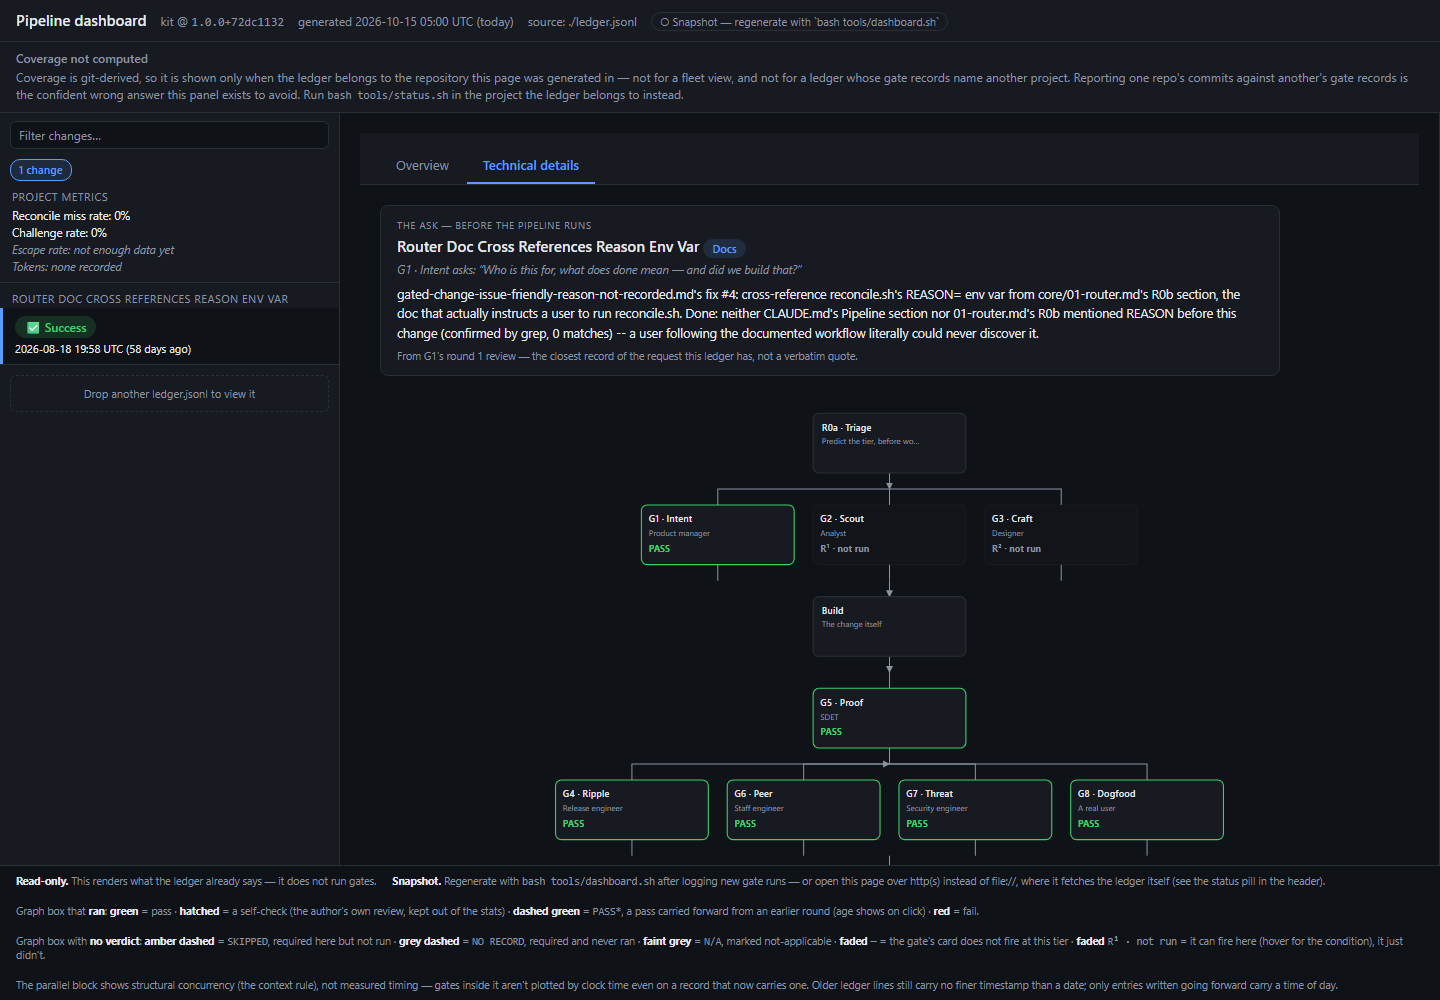
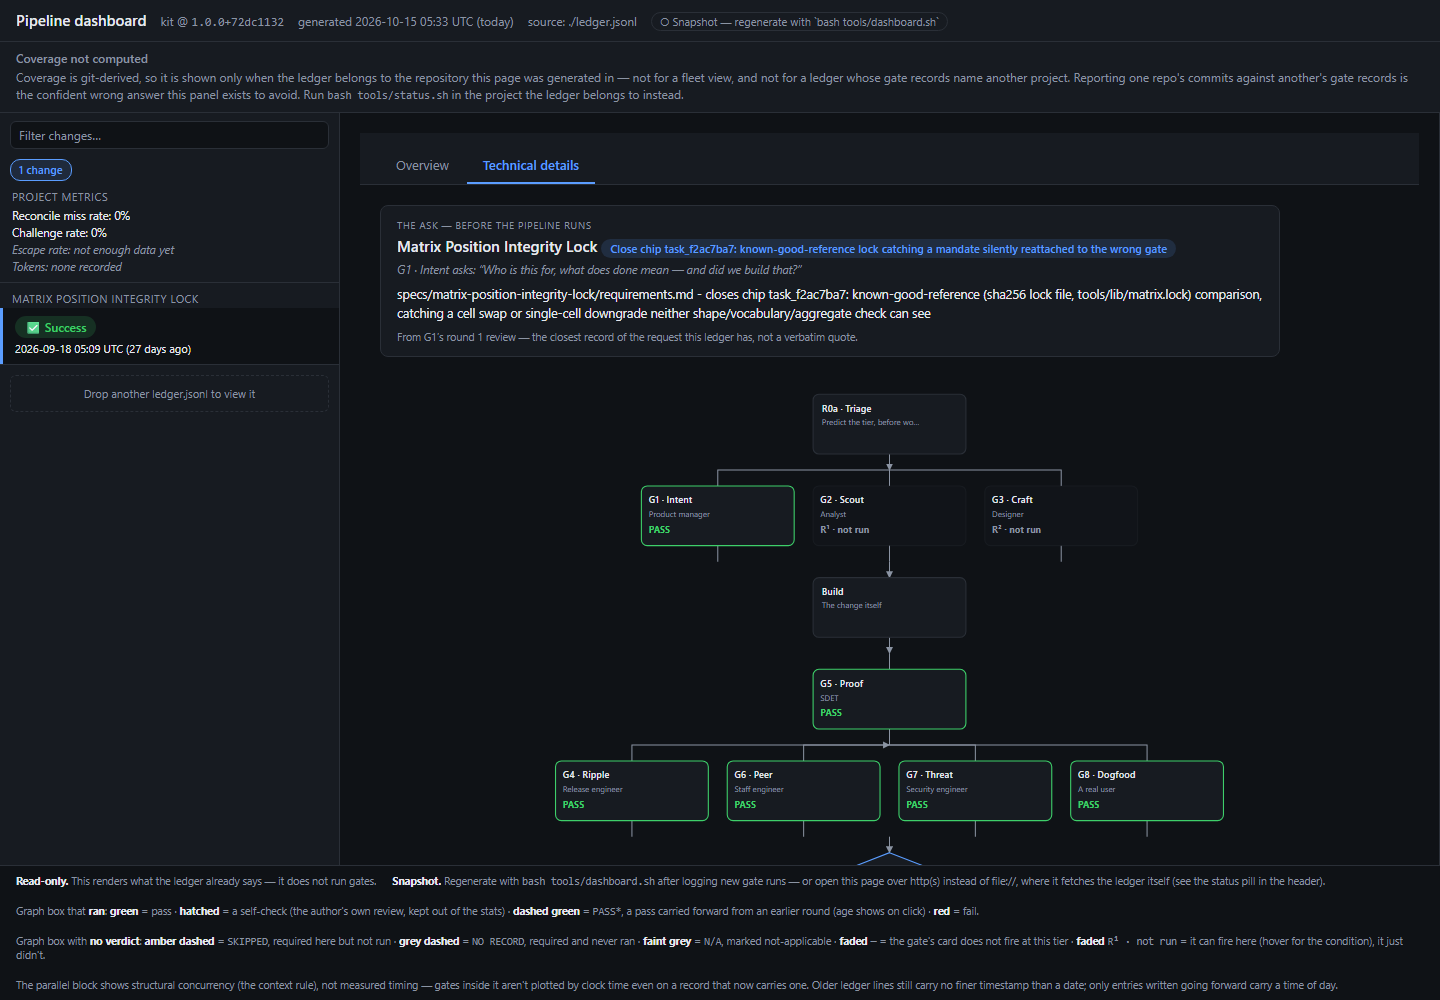
README: status wording, a T4 dashboard capture, install-step fixes
Status rows split into shown / not yet measured / cost measured, the claim stated once. Dashboard and technical-page captures are now a real T4 security change that passed every mandated gate at round 1. Install cleanup no longer names the nonexistent releases/ and the docs cp creates its target. Drops the internal history paragraph and two self-conscious phrases; adds a reassurance line to the license summary.

Filtered tests (readme): 19 passed, 0 failed.

diff --git a/README.md b/README.md
@@ -48,8 +48,8 @@ replacement for CI. See [What it is not](#what-it-is-not).
 | **Used on real projects** | Nine built with it, one of them public: [Focus Guard — Website Blocker](https://chromewebstore.google.com/detail/focus-guard-%E2%80%94-website-blo/blbbadphbklfpllimmcnhjcacdicmnge) on the Chrome Web Store. Use, not a proven effect: see [the evidence](docs/evidence.md) |
 | **Nothing to host** | A folder of markdown, a few bash scripts and one config file. No server, no account, no dependencies beyond `bash` and `git`. Nothing leaves your machine |
 
-What is **not** claimed: that it reduces defects or review effort. That is unproven, and the
-[evidence page](docs/evidence.md) says exactly what the numbers can and cannot support.
+What is **not** claimed: that it reduces defects or review effort. That comparison has not been
+run yet; the [evidence page](docs/evidence.md) says exactly what the numbers can and cannot support.
 
 ### See it
 
@@ -59,8 +59,9 @@ authentication or a migration cannot reach release without a security review on 
 ![Which gates each tier requires](docs/images/tiers-gates.svg)
 
 **The dashboard** is a single HTML file generated from the ledger: open it by double-click,
-no server. This is a real change from this repo's own ledger: a trust-boundary (T4) change that
-every mandated reviewer passed at round 1.
+no server. This is a real change from this repo's own ledger: a trust-boundary (T4) security fix to
+the router's integrity check, which every mandated reviewer passed at round 1. (This is the
+single-change view; load the full ledger to see the project-level metrics panel as well.)
 
 ![The dashboard overview for one change: every reviewer passed at round 1](docs/images/dashboard.png)
 
@@ -145,8 +146,8 @@ Who this is for is under [At a glance](#at-a-glance).
   records that they did. It does not find bugs by itself — the gates (an AI or a human
   following a checklist) do.
 - **Not a service.** Nothing leaves your machine. The ledger is a text file in your repo.
-- **Not proven to reduce defects yet.** See [Status](#status--what-is-and-is-not-proven) —
-  the repo ships a benchmark harness precisely so you can check for yourself.
+- **Not a guarantee.** What is and is not shown is in [Status](#status--what-is-and-is-not-proven);
+  the repo ships a benchmark harness so you can check on your own project.
 
 ---
 
@@ -181,11 +182,8 @@ project/   yours. Every project-specific fact lives here and nowhere else.
 If you find yourself editing `core/` to fit your project, that is a bug in `core/` — the
 knob you need is missing from `project/`. Open an issue rather than forking.
 
-This split exists because the first version of this pipeline was written inside the
-codebase it was designed for. Every rule came out entangled with that project's specifics —
-storage keys, rule engine, browser targets — and separating them afterwards was harder than
-writing them apart in the first place. It is also what lets you
-[update the kit](#updating-an-installed-kit) without losing your configuration.
+This split is what lets you [update the kit](#updating-an-installed-kit) without losing your
+configuration.
 
 ### Five kinds of thing
 
@@ -221,7 +219,7 @@ gate history as yours.
 cp -r gated-change/ your-project/.pipeline/
 cd your-project/.pipeline
 rm -rf .git ledger.jsonl dashboard.html security-reports project \
-       SESSION-HANDOFF.md INTENT-LOG.md LEARNINGS.md ACTION-PLAN.md dist releases tests experiments \
+       SESSION-HANDOFF.md INTENT-LOG.md LEARNINGS.md ACTION-PLAN.md dist tests experiments \
        specs docs .claude .github
 cd ..
 ```
@@ -234,7 +232,8 @@ cd ..
 - `ledger.jsonl`, `dashboard.html`, `security-reports/`, `project/`, `SESSION-HANDOFF.md`,
   `INTENT-LOG.md`, `LEARNINGS.md`, `specs/`, `experiments/`, `tests/`, `docs/` are the kit's own
   development artifacts, not portable content (`docs/` holds this README's images and the evidence page).
-- `dist/` and `releases/` are build output from the kit's own development — dead weight in an install.
+- `dist/` is build output from the kit's own development, and `.claude/` and `.github/` are the kit's
+  own editor settings and CI: dead weight in an install.
 - **Keep** `CHANGELOG.md` and `VERSION`: they travel with a real install, and
   `tools/update-kit.sh` treats them as portable.
 - **Keep** `LICENSE`, `NOTICE` and `examples/`. The license and notice travel with the copy, and `examples/` is
@@ -493,7 +492,7 @@ one loses the record.
 Copy the first three from `templates/` into your docs folder:
 
 ```bash
-cp .pipeline/templates/SESSION-HANDOFF.md .pipeline/templates/INTENT-LOG.md \
+mkdir -p docs && cp .pipeline/templates/SESSION-HANDOFF.md .pipeline/templates/INTENT-LOG.md \
    .pipeline/templates/LEARNINGS.md docs/
 ```
 
@@ -1174,20 +1173,20 @@ the matrix) → the card for whichever gate you are about to run.
 
 ## Status — what is and is not proven
 
-Honest, so no claim outruns its evidence:
+Each claim below is paired with the evidence for it:
 
 | Claim | Status |
 |---|---|
 | The universal couplings are real failure modes | Widely documented, low controversy |
 | The mining method finds real couplings | **Verify on your own repo — that is step 2** |
-| The routed pipeline reduces defects | **Unproven.** `tools/benchmark/` exists to test it |
-| The routing reduces effort vs. reviewing everything | **Unproven.** Same harness |
+| The gates and tiers surface real defects before push | **Shown in this repo's ledger:** 214 blocking findings across 481 gate runs ([numbers and limits](docs/evidence.md)) |
+| Fewer defects reach users | **Not yet measured.** There is no control group; `tools/benchmark/` runs the comparison on your own repo |
+| Routing costs less than reviewing everything | **Cost per gate is measured; the comparison against running every gate has not been run yet** |
 | The kit runs its own pipeline | **Since 2026-08-12.** `ledger.jsonl` is the evidence — 481 gate runs across 50 changes as of 2026-10-15 ([numbers and limits](docs/evidence.md)) |
 | The kit has shipped real projects | **Yes: nine.** One is public — [Focus Guard on the Chrome Web Store](https://chromewebstore.google.com/detail/focus-guard-%E2%80%94-website-blo/blbbadphbklfpllimmcnhjcacdicmnge) — and eight are private. Use is shown; effect on defects or effort is not (rows above) |
 | The tools do what this README says | `bash tests/run.sh` — 1380 checks passed on 2026-10-15, no dependencies |
 
-The benchmark harness is not marketing. If it shows the pipeline costs more than it saves,
-that result gets published here too.
+If the benchmark shows the pipeline costs more than it saves, that result gets published here too.
 
 **On the fifth row.** For its first seventeen commits this repo had no ledger, no hook, and
 somebody else's surfaces file — while shipping a pipeline whose own rule is *a gate with no
@@ -1252,7 +1251,8 @@ as a practical substitute for the software definitely competes. In plain terms: 
 offering your own review pipeline, gating tool or ledger product that does what the kit does is
 the thing to avoid. Using the kit to review and ship your own application is the intended use.
 A developer tool that is itself a gating or review product sits close to the line, so ask before
-you build it. The legal text decides, not this paragraph.
+you build it. Using the kit inside any application or internal workflow is unaffected. The legal
+text decides, not this paragraph.
 
 **Asking about a use that is not covered**, or a commercial arrangement: open an issue on the
 repository.
